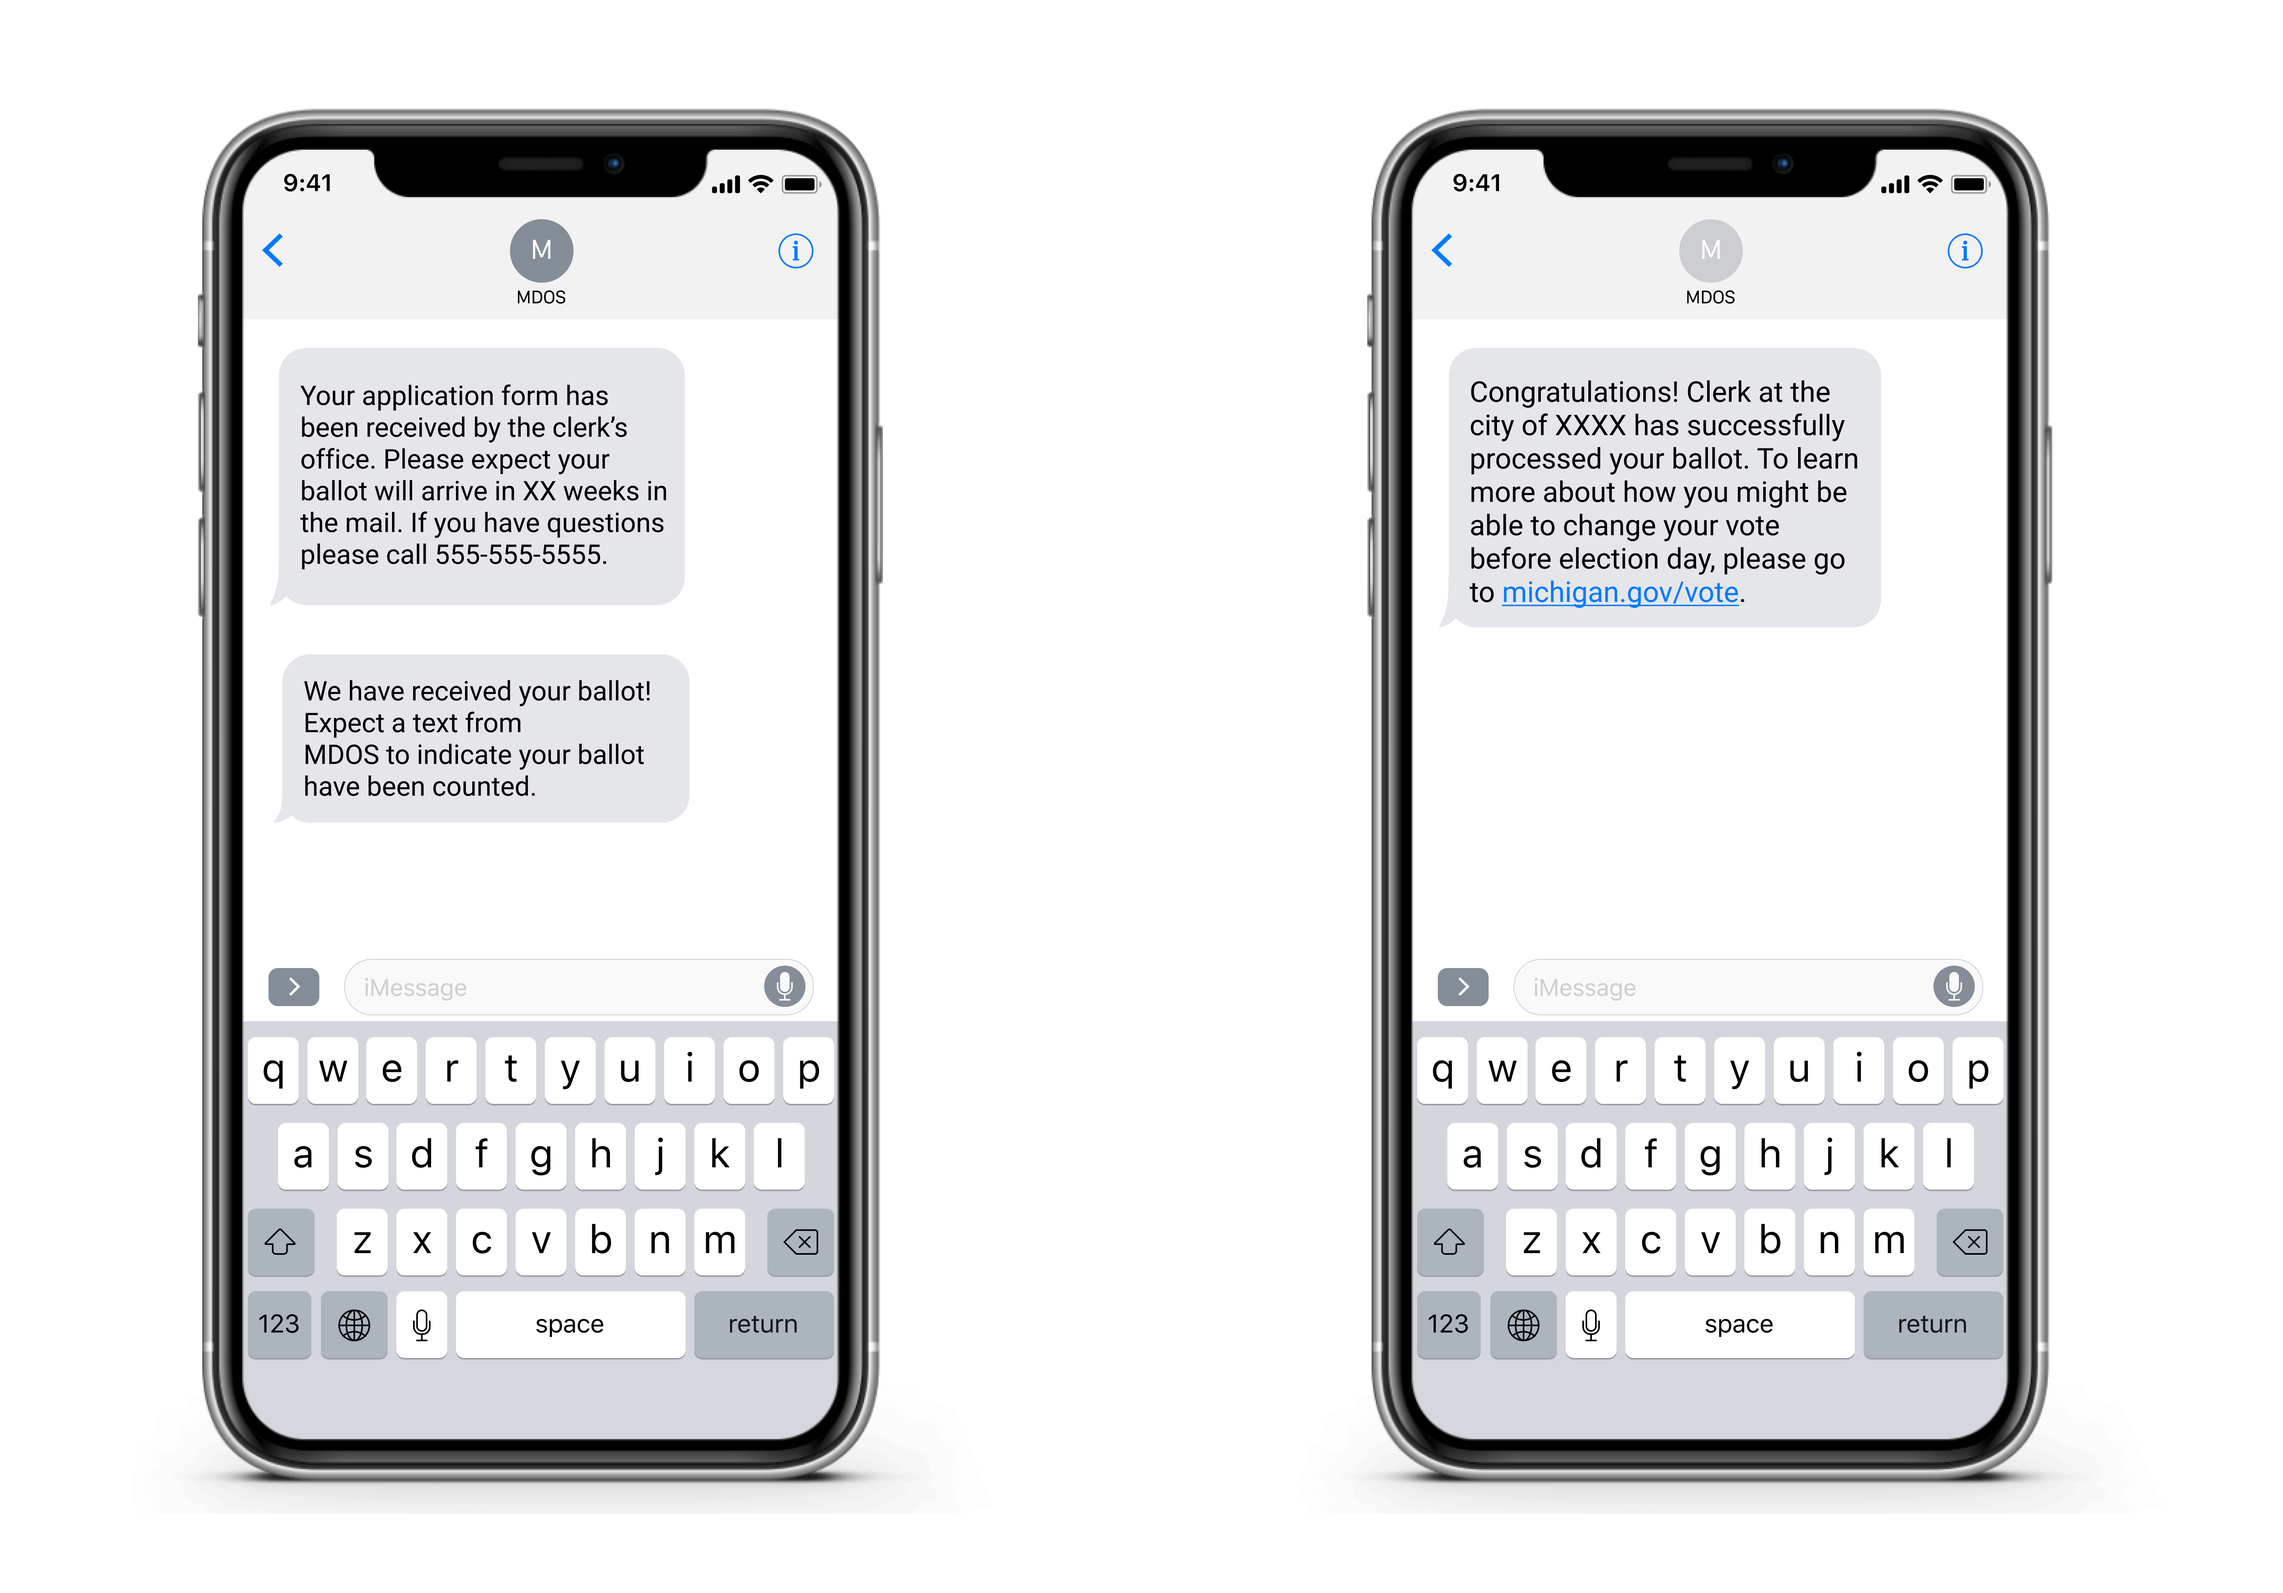
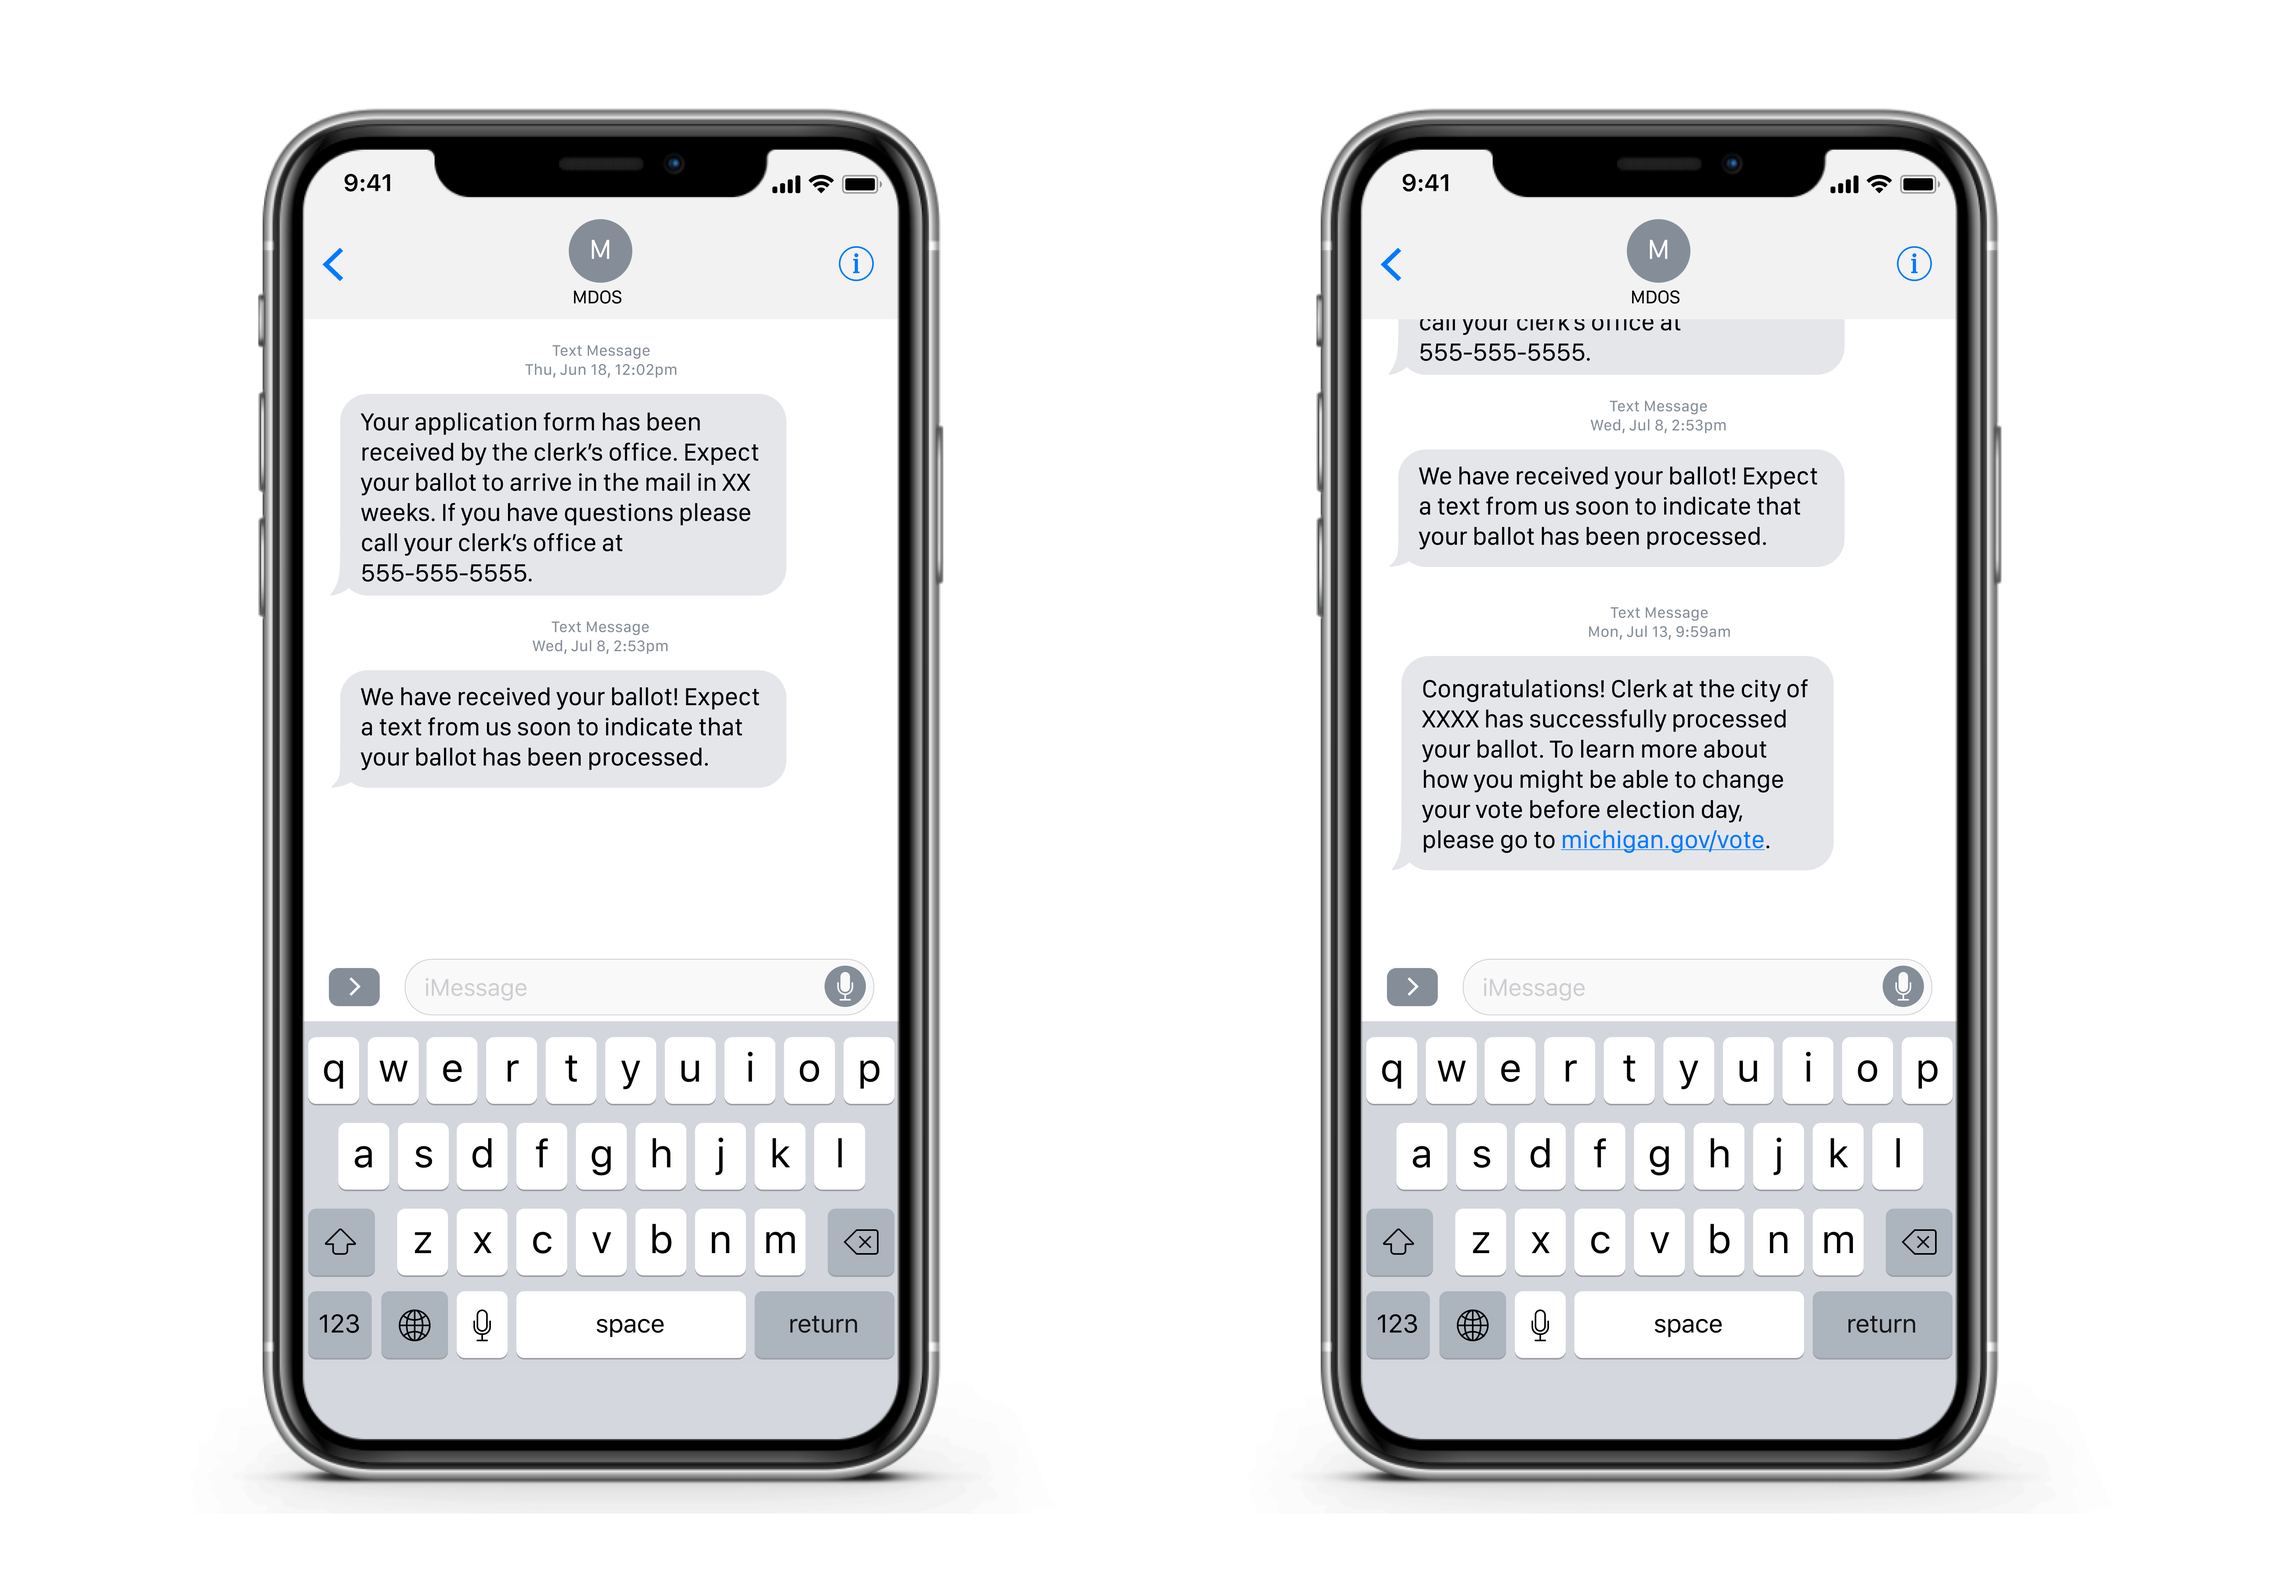
replace imgs, small copy changes

Changed region(s): [[0.5605, 0.0623, 0.9031, 0.9347], [0.0623, 0.0623, 0.436, 0.9347], [0.2491, 0.6543, 0.2803, 0.6854]]

diff --git a/mdos.html b/mdos.html
@@ -73,11 +73,11 @@ accessible as it could be, email me at cameronginiel@gmail.com -->
 	      		<br>
 	      		<p><span class="fw-bolder">Duration:</span> May 26, 2020 - Aug 14, 2020
 	      		<br>
-	      		<span class="fw-bolder">Team and role:</span> UX Design, UX Research
+	      		<span class="fw-bolder">Team and role:</span> Citizen Interaction Design Summer Fellows; UX Design, UX Research
 	      		<br>
 	      		<span class="fw-bolder">Type:</span> Client Project
 	      	  <br>
-	      		<span class="fw-bolder">Skills Used:</span> Semi-structured Interviews, Affinity Diagramming, User Surveys, Comparative Analysis, Background Research, Participatory Design, Design Justice</p>
+	      		<span class="fw-bolder">Skills Used:</span> Semi-structured Interviews, Affinity Diagramming, Comparative Analysis, Background Research, Research Synthesis, Rapid Ideation, Participatory Design, Prototyping, Design Justice</p>
 	      	</div>
 	      </div>
 	    </div>
@@ -209,7 +209,7 @@ accessible as it could be, email me at cameronginiel@gmail.com -->
 	          <h1 class="mb-4">Exploring the Problem Space</h1>
 	          <p>While researching college students, we noticed that community college students had fewer resources available to them compared to students at a four year university. Furthermore, we saw that not only do community college students have a much lower voter turnout rate than their university counterparts, but they tend to be more passive about seeking voter information. We decided that it would be wise to design a solution for this population that we saw as underserved. We narrowed down our target audience as community college students between the ages of 18 and 25, which aligned with our client's goal of designing for harder-to-reach younger voters.</p>
 	          <br>
-						<p>At this point, I thought it would be wise to generate a wide array of ideas based on the information we gathered. I facilitated an open-ended design brainstorm session with two other group mates to rapidly come up with ideas.</p>
+						<p>At this point, I thought it would be wise to generate a wide array of ideas based on the information we gathered. Using the rapid ideation method, I facilitated an open-ended design brainstorm session with two other group mates to quickly generate ideas.</p>
 	        </div>
 	      </div>
 	      <div class="row justify-content-center">
@@ -383,7 +383,7 @@ accessible as it could be, email me at cameronginiel@gmail.com -->
 				<div class="row justify-content-center">
 	      	<div class="col col-sm-8 col-md-6 text-center card-tag mt-3">
 						<p>SMS Mockup 3 (left): A new message notifies the voter that their local clerk has received their absent voter (AV) application. After receiving, filling out, and sending their ballot, MDOS texts the voter that their absentee ballot has been received.</p>
-						<p>SMS Mockup 4 (right): MDOS texts the voter with confirmation that their absentee ballot has been counted in the election. They offer additional guidance on how the voter can change their vote if they wish.
+						<p>SMS Mockup 4 (right): MDOS texts the voter with confirmation that their absentee ballot has been processed. They offer additional guidance on how the voter can change their vote before the election, if they wish.
 						</p>
 					</div>
 	      </div>
